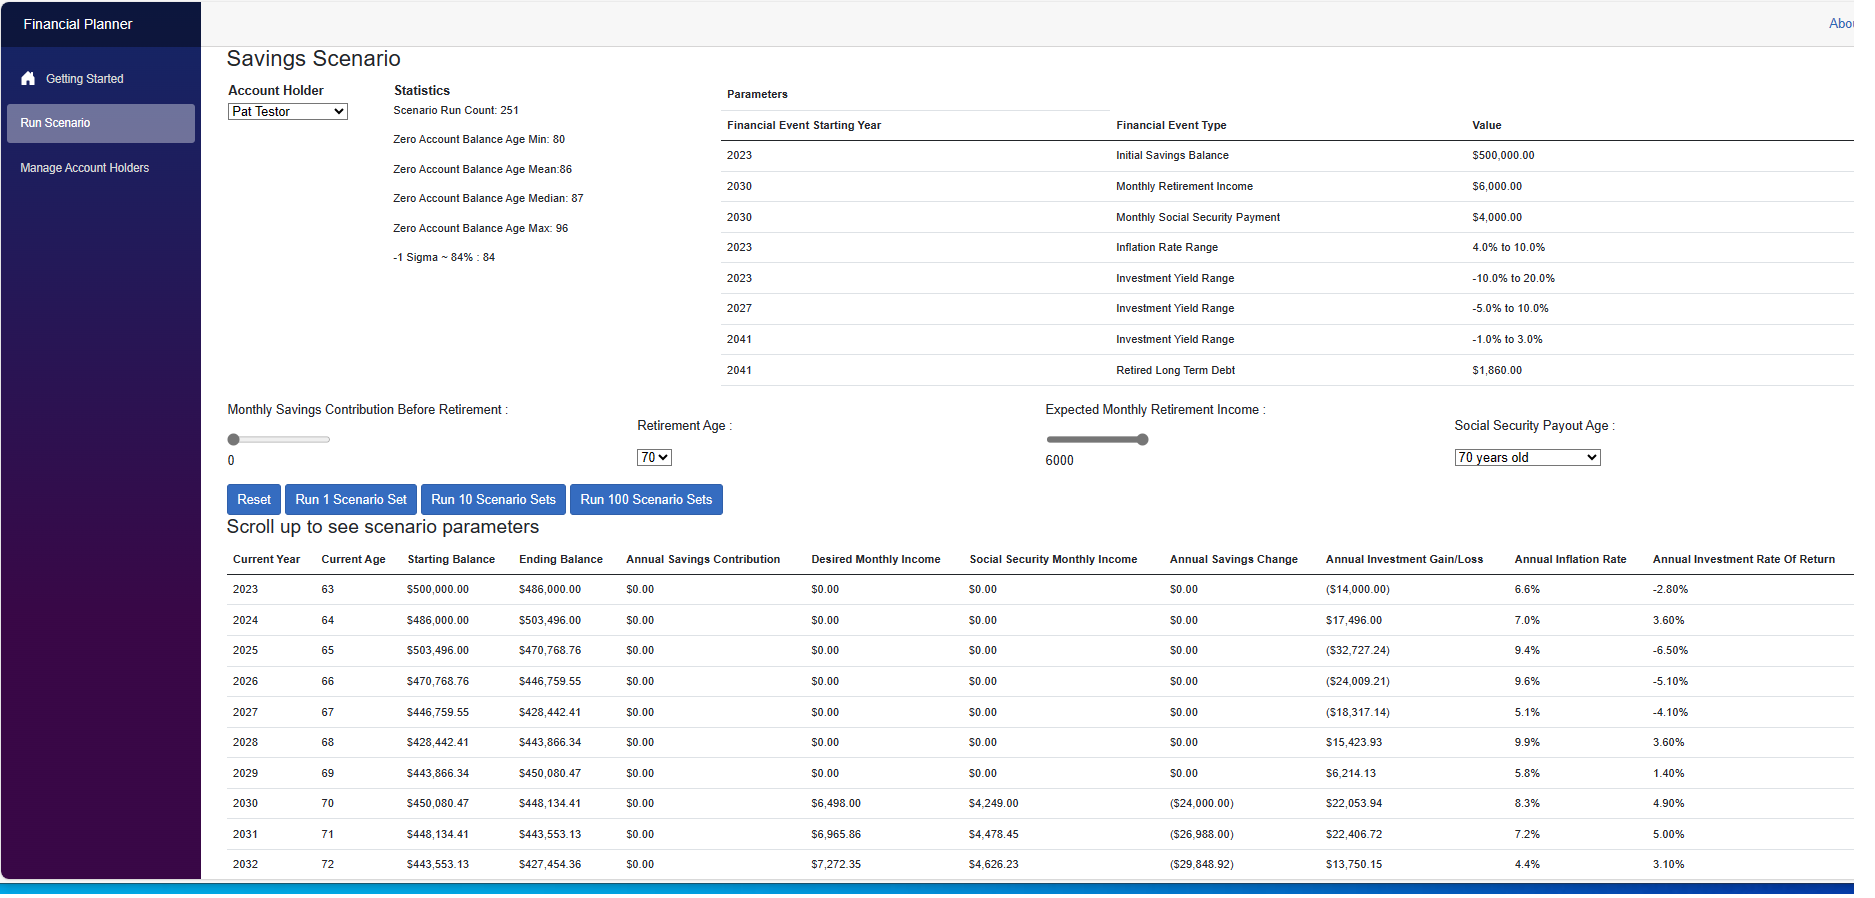
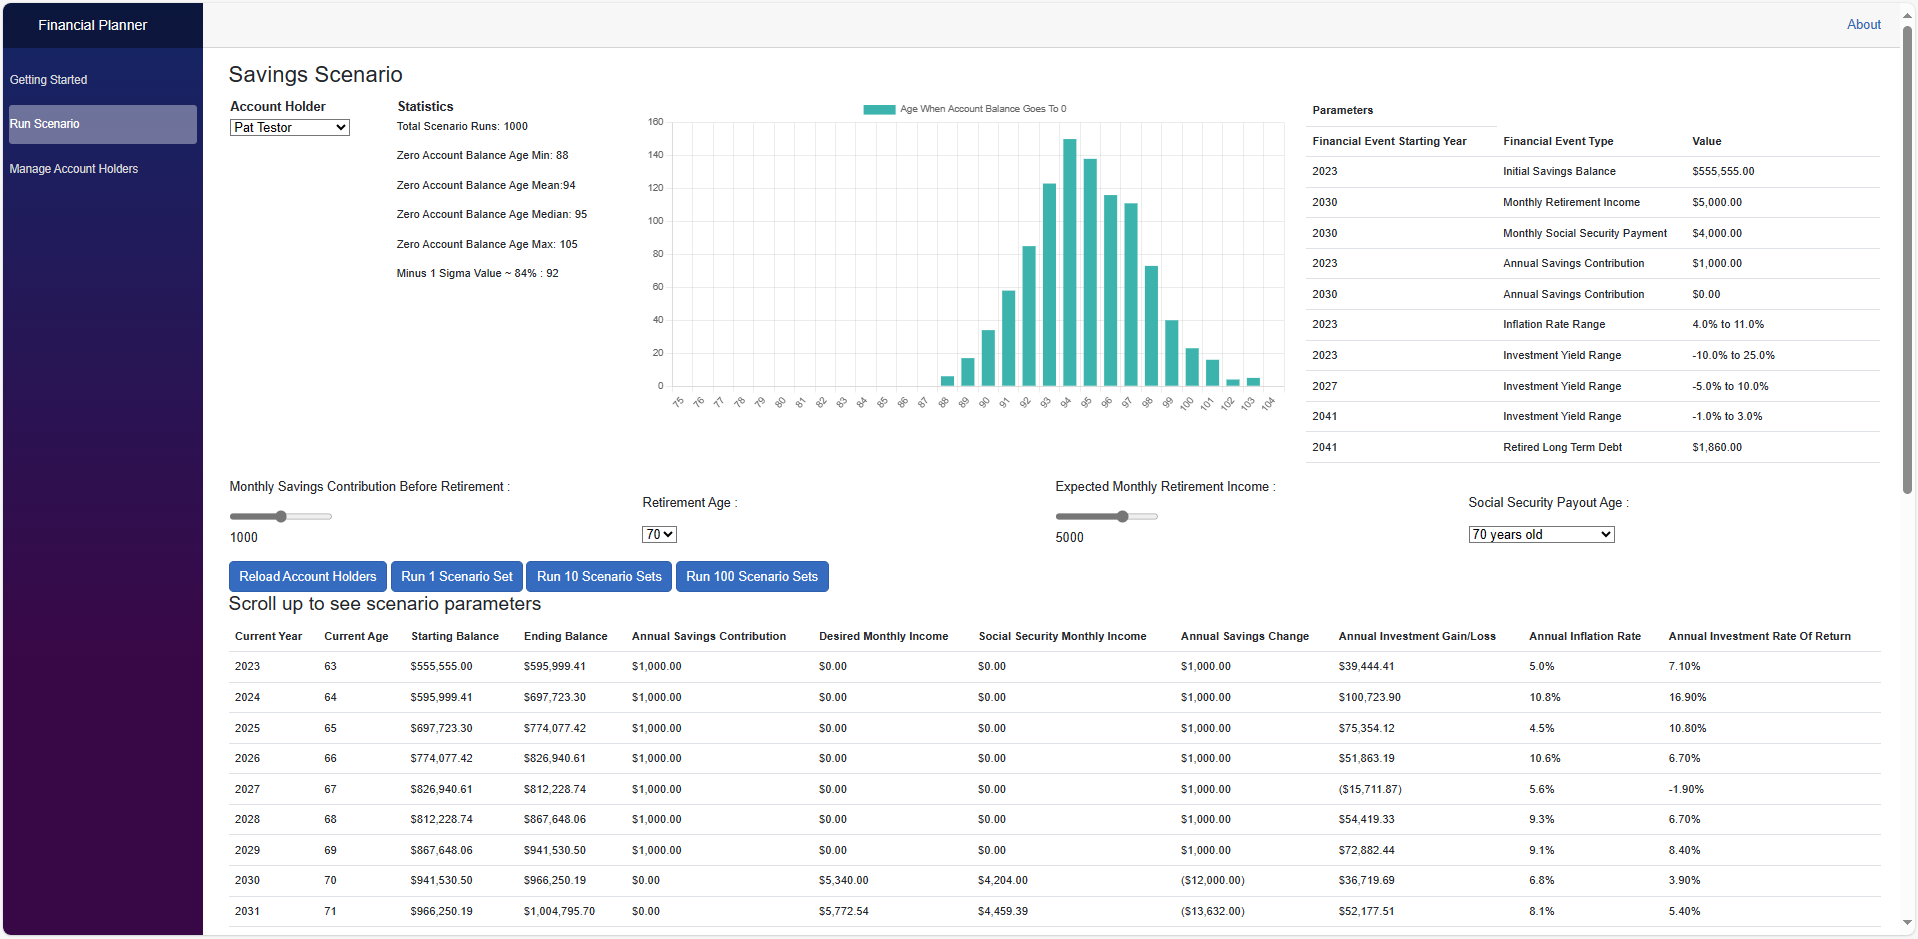
Fixed break in the pre retirement savings, it was being ignored. Made some tweaks in UI around graph.

diff --git a/HistogramBucket/HistogramBucket.cs b/HistogramBucket/HistogramBucket.cs
@@ -2,8 +2,6 @@
 {
     public class HistogramBucket
     {
-
-        const int BUCKET_WIDTH = 1;
         protected int bucketWidth;
         protected int numberOfBuckets;
         protected int lowestBucket;
